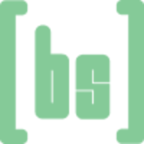
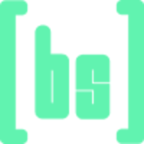
deploy: e35fbc025d464bd5f271b29c03ed19ff185a6e9d

diff --git a/css/custom.css b/css/custom.css
@@ -12,6 +12,10 @@
 }
 
 /* style.css bu değerleri değişkensiz yazdığı için ismen eziliyor */
+.logo {
+  color: var(--background);
+}
+
 body {
   background-color: var(--background);
 }
